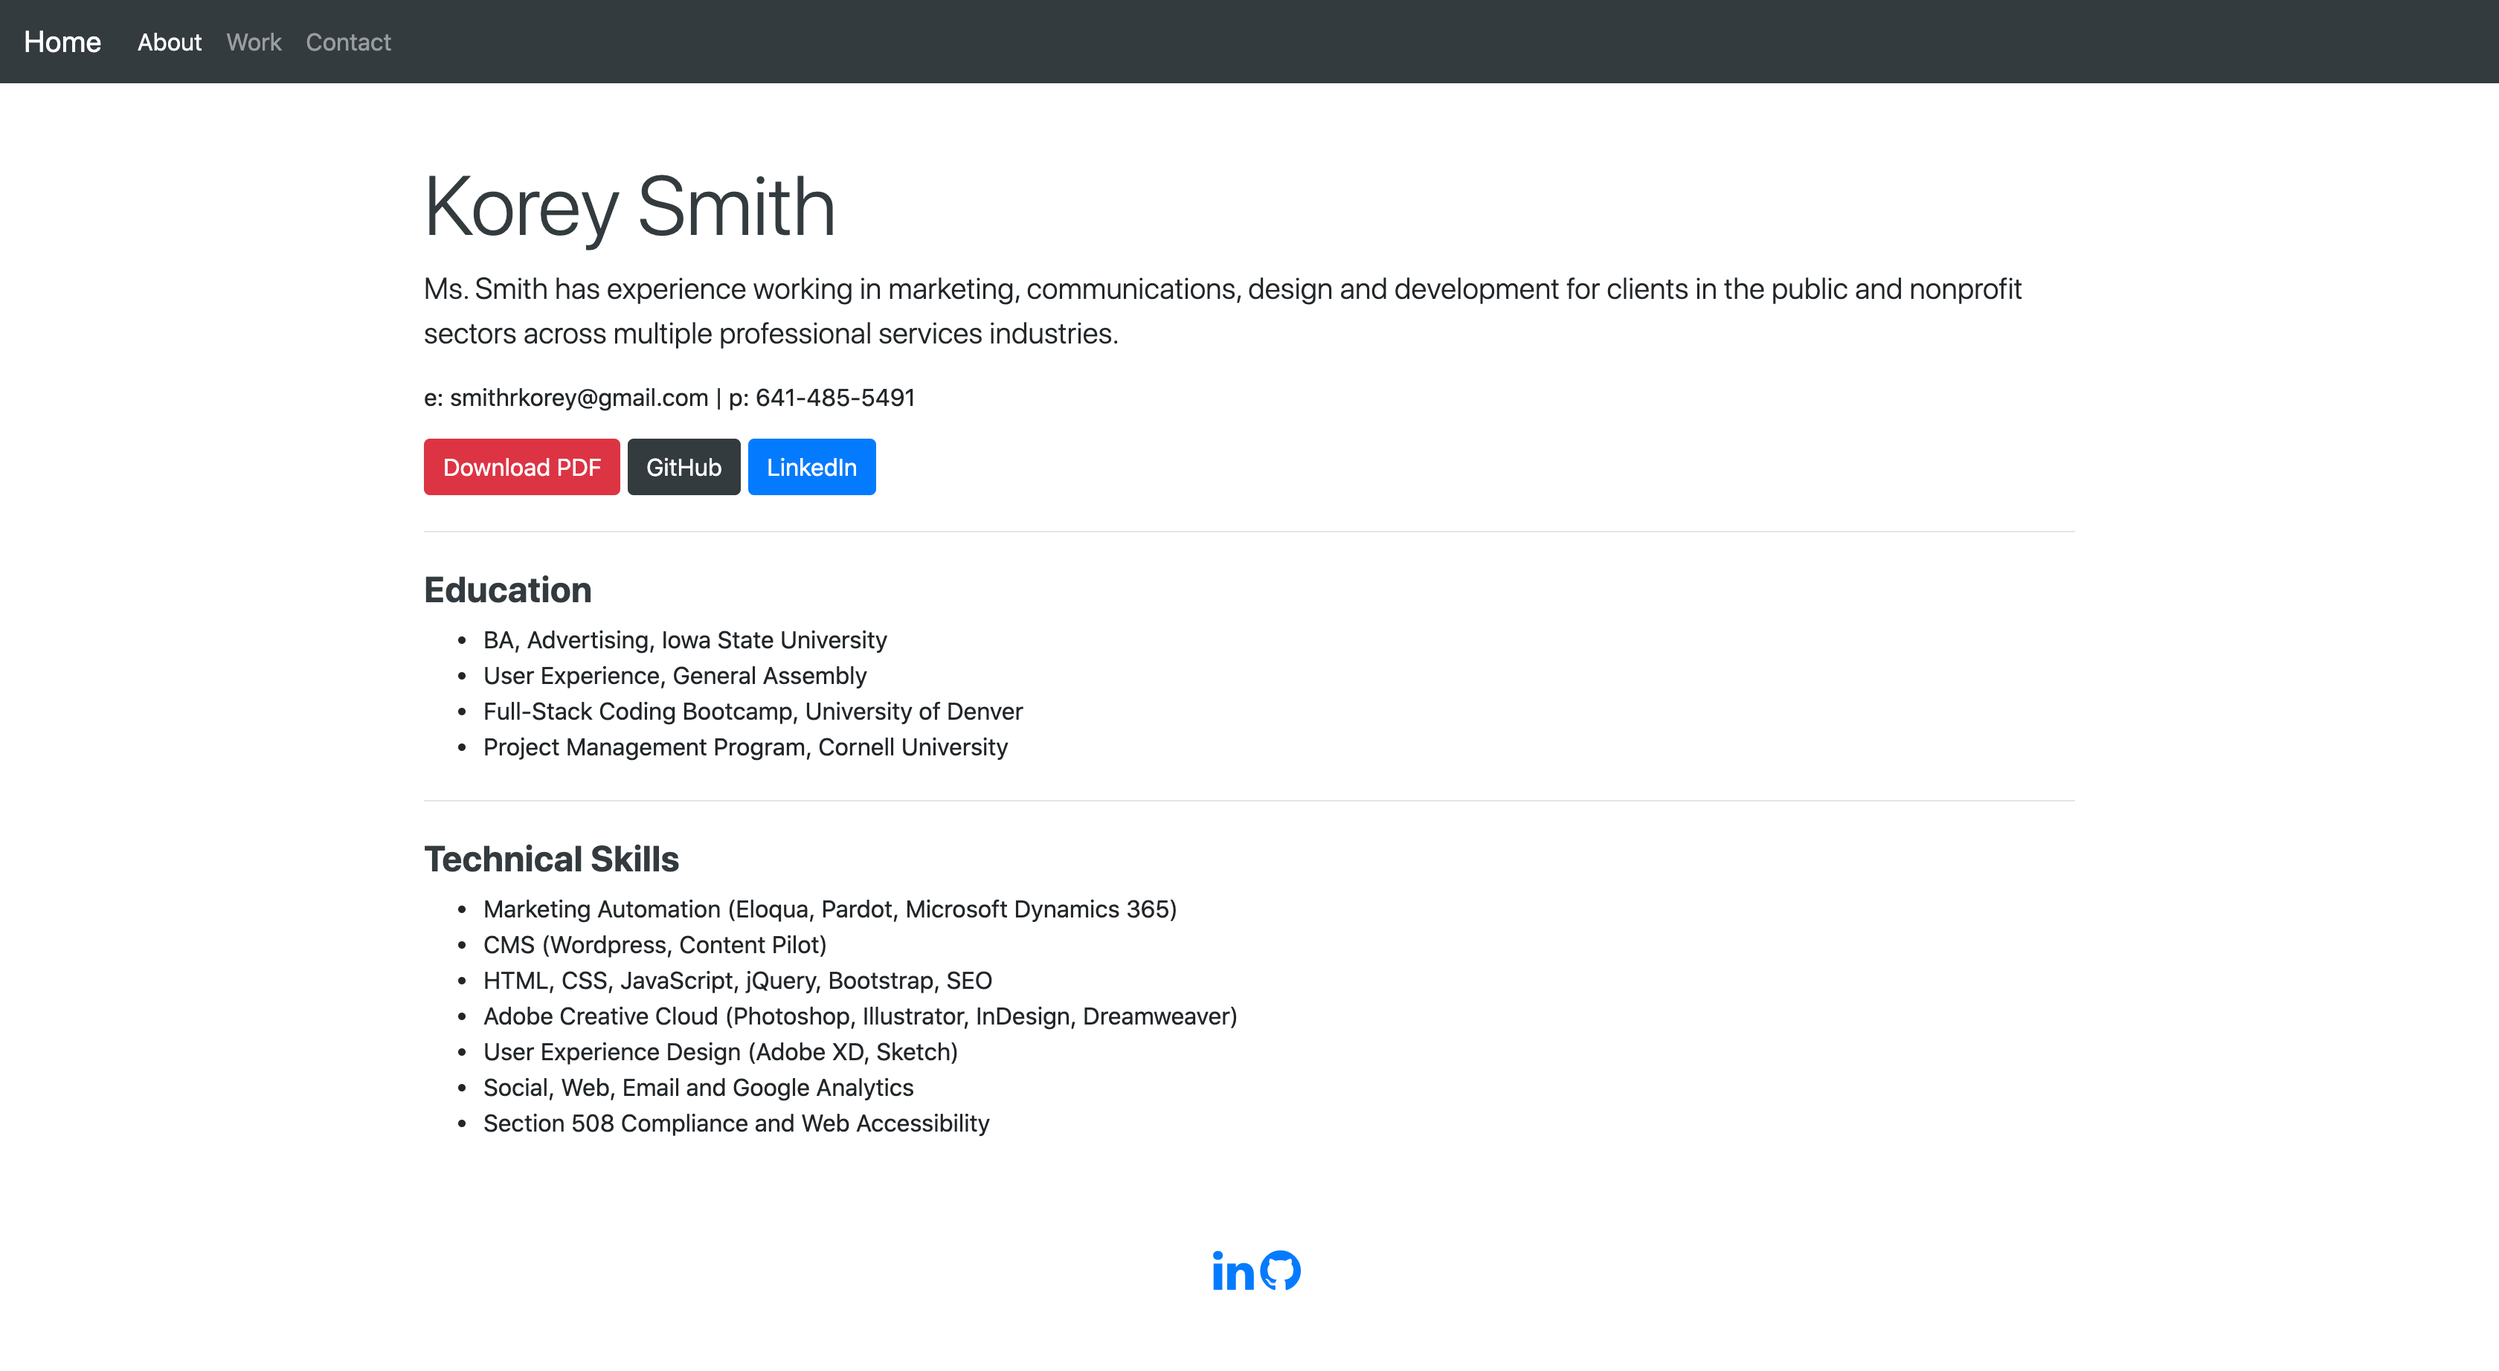
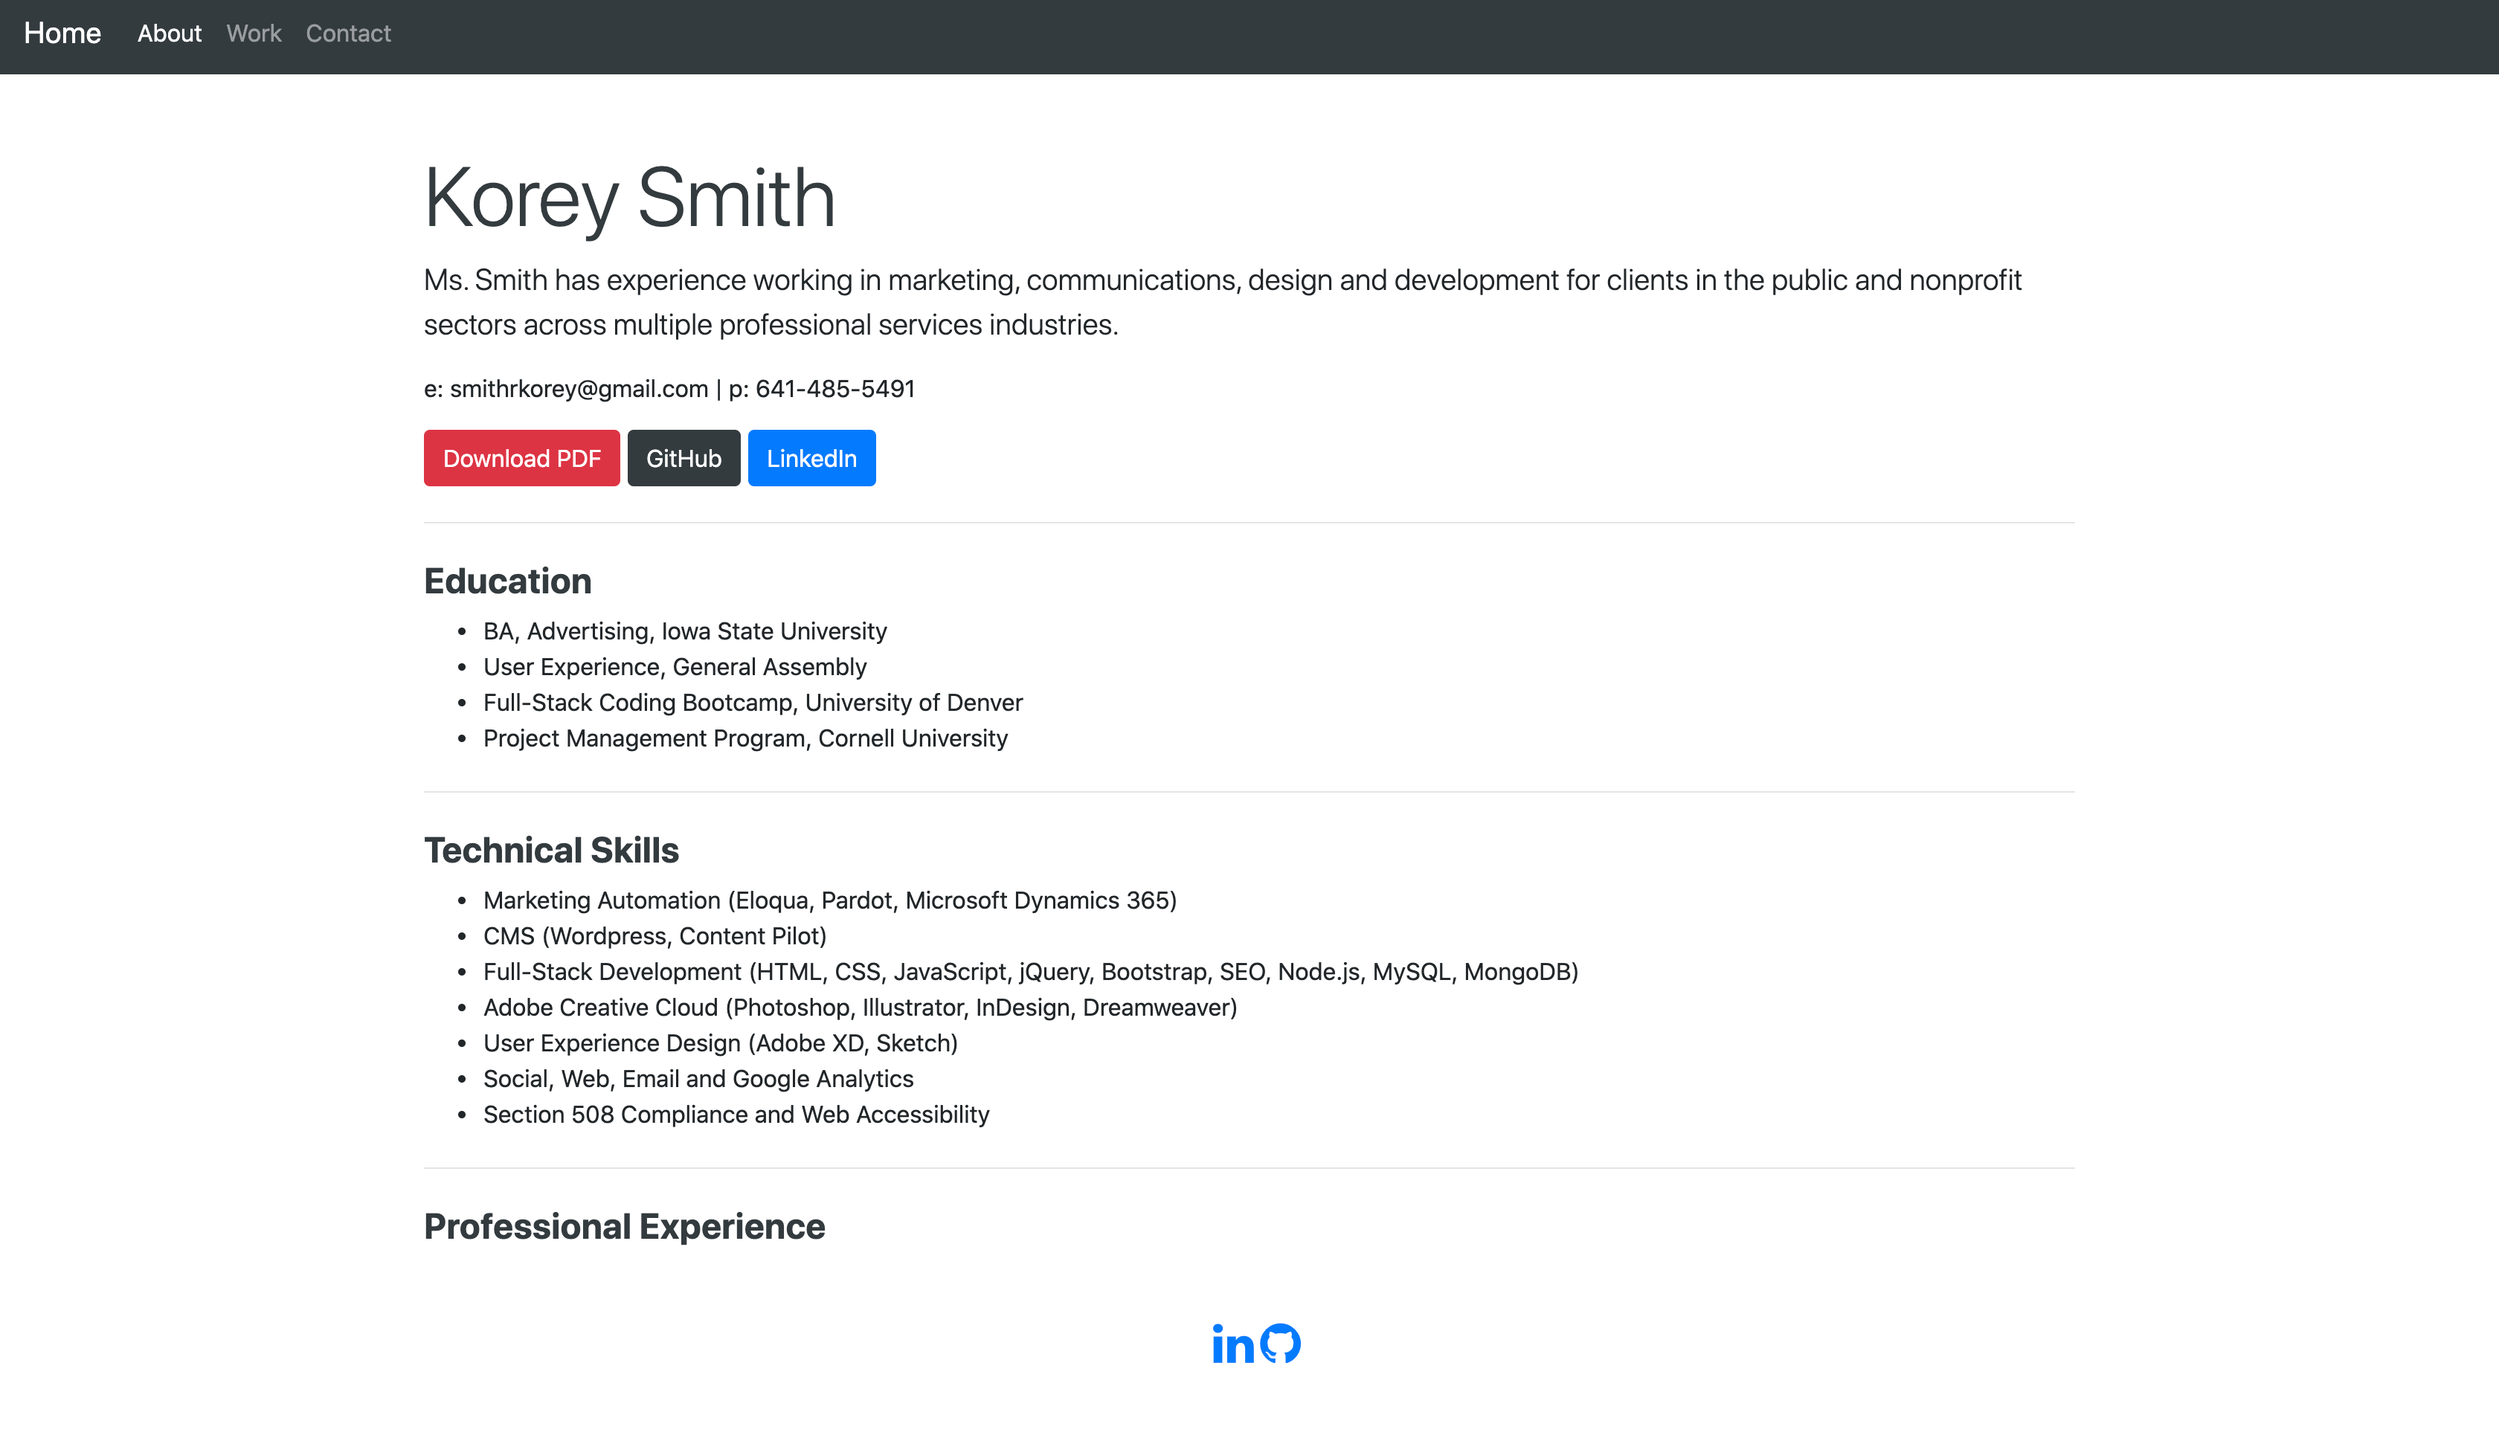
new edits

Changed region(s): [[0.1562, 0.1236, 0.8125, 0.8655], [0.0, 0.0, 1.0, 0.0618], [0.5, 0.8964, 0.5312, 0.9582]]

diff --git a/README.md b/README.md
@@ -4,8 +4,8 @@
 
 ## Requirements
 
-* Submit an updated portfolio featuring Project 1 and two exemplary homework assignments. 
-* Submit an updated GitHub profile with pinned repositories featuring Project 1 and two exemplary assignments. 
+* Submit updated portfolio featuring at least 3 examples of student work from either deployed projects of homeworks
+* Submit updated GitHub profile with pinned repositories featuring at least 3 examples of student work from either deployed projects of homeworks.
 * Submit an updated resume. 
 * Submit an updated LinkedIn profile.
 
